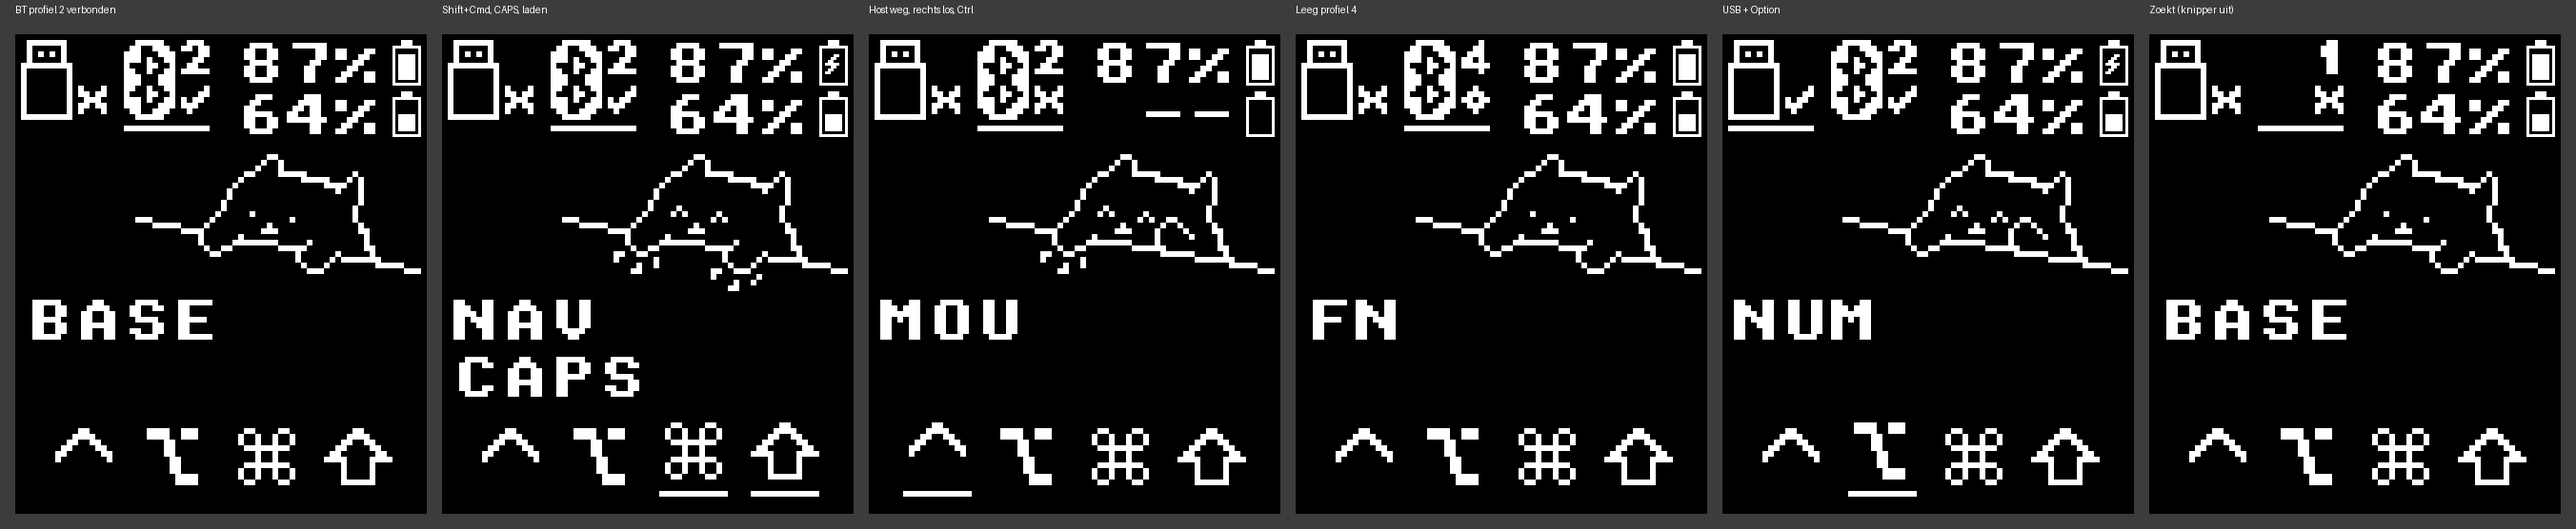
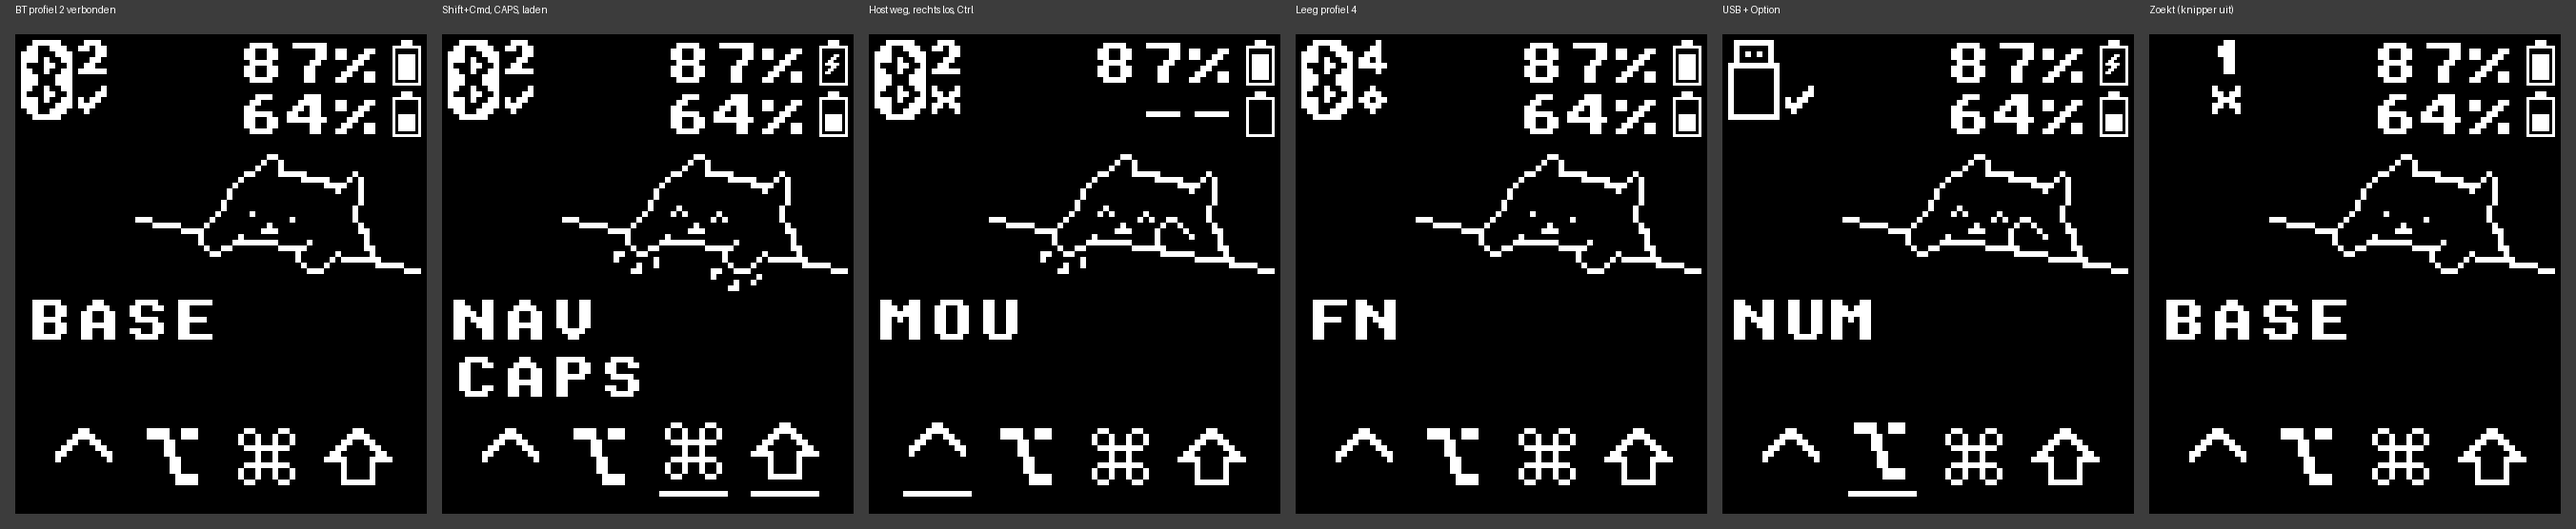
Display style 3: only show the active output (USB or Bluetooth)
Drop the always-visible USB/Bluetooth pair and selection line; the Bluetooth
logo only blinks while Bluetooth is the active output and not connected.

Claude-Session: https://claude.ai/code/session_019Kz1aDsXCQGBAv992FuoYC

diff --git a/boards/shields/nice_view_gem/widgets/screen_dongle.c b/boards/shields/nice_view_gem/widgets/screen_dongle.c
@@ -5,8 +5,8 @@
  * for a portrait screen:
  *
  *   +----------------------------+
- *   | [USB]v [BT]2v     87% [##] |  output: USB / Bluetooth + profile + status mark
- *   | ====               64% [# ] |  batteries: left half, right half
+ *   | [BT]2v            87% [##] |  output: USB or Bluetooth (+ profile) + status mark
+ *   |                   64% [# ] |  batteries: left half, right half
  *   |          Bongo Cat         |
  *   | BASE                       |  layer name
  *   | CAPS                       |  Caps Lock (only when on)
@@ -52,11 +52,8 @@ LOG_MODULE_DECLARE(zmk, CONFIG_ZMK_LOG_LEVEL);
 
 /* Layout */
 #define OUT_Y           2
-#define USB_X           2
-#define BT_X            38
+#define OUT_X           2
 #define ICON_W          18      // USB / Bluetooth icon: 18x28
-#define ICON_H          28
-#define SELECT_LINE_Y   (OUT_Y + ICON_H + 2)
 
 #define BAT_ICON_X      (SCREEN_WIDTH - 12)
 #define BAT_ROW_Y(i)    (OUT_Y + (i) * 18)
@@ -157,30 +154,32 @@ static void draw_pattern(lv_obj_t *canvas, int x, int y, const char *const *rows
 }
 
 /**
- * Output: [USB][mark]  [BT][profile][mark], with a line under the selected one
+ * Output: only the active one is shown
+ *   USB:       [USB][mark]           mark = ok when the computer is using the keyboard
+ *   Bluetooth: [BT][profile][mark]   mark = ok connected / x paired but not connected /
+ *                                           <> empty profile, ready to pair
  **/
 
 static void draw_output(lv_obj_t *canvas, const struct status_state *state) {
-    // USB
-    draw_img(canvas, USB_X, OUT_Y, &sym_usb_2x);
-    draw_img(canvas, USB_X + ICON_W + 2, OUT_Y + 16, state->usb_hid_ready ? &sym_ok_2x : &sym_nok_2x);
+    if (state->selected_endpoint.transport == ZMK_TRANSPORT_USB) {
+        draw_img(canvas, OUT_X, OUT_Y, &sym_usb_2x);
+        draw_img(canvas, OUT_X + ICON_W + 2, OUT_Y + 16,
+                 state->usb_hid_ready ? &sym_ok_2x : &sym_nok_2x);
+        return;
+    }
 
     // Bluetooth, blinking while searching for / waiting on the host
     if (state->active_profile_connected || !state->conn_blink_off) {
-        draw_img(canvas, BT_X, OUT_Y, &sym_bt_2x);
+        draw_img(canvas, OUT_X, OUT_Y, &sym_bt_2x);
     }
     if (state->active_profile_index >= 0 &&
         state->active_profile_index < ARRAY_SIZE(profile_digits)) {
-        draw_img(canvas, BT_X + ICON_W + 2, OUT_Y, profile_digits[state->active_profile_index]);
+        draw_img(canvas, OUT_X + ICON_W + 2, OUT_Y, profile_digits[state->active_profile_index]);
     }
     const lv_img_dsc_t *bt_mark = state->active_profile_connected ? &sym_ok_2x
                                   : state->active_profile_bonded  ? &sym_nok_2x
                                                                   : &sym_open_2x;
-    draw_img(canvas, BT_X + ICON_W + 2, OUT_Y + 16, bt_mark);
-
-    // Selection line under the active output
-    int line_x = state->selected_endpoint.transport == ZMK_TRANSPORT_USB ? USB_X : BT_X;
-    draw_box(canvas, line_x, SELECT_LINE_Y, ICON_W + 12, 2, LVGL_FOREGROUND);
+    draw_img(canvas, OUT_X + ICON_W + 2, OUT_Y + 16, bt_mark);
 }
 
 /**
@@ -374,7 +373,9 @@ static void output_update_cb(struct output_state state) {
         widget->state.active_profile_bonded = state.active_profile_bonded;
         widget->state.usb_hid_ready = state.usb_hid_ready;
 
-        if (state.active_profile_connected) {
+        // Only blink while Bluetooth is the active output and has no connection
+        if (state.selected_endpoint.transport != ZMK_TRANSPORT_BLE ||
+            state.active_profile_connected) {
             lv_timer_pause(widget->blink_timer);
             widget->state.conn_blink_off = false;
         } else {
